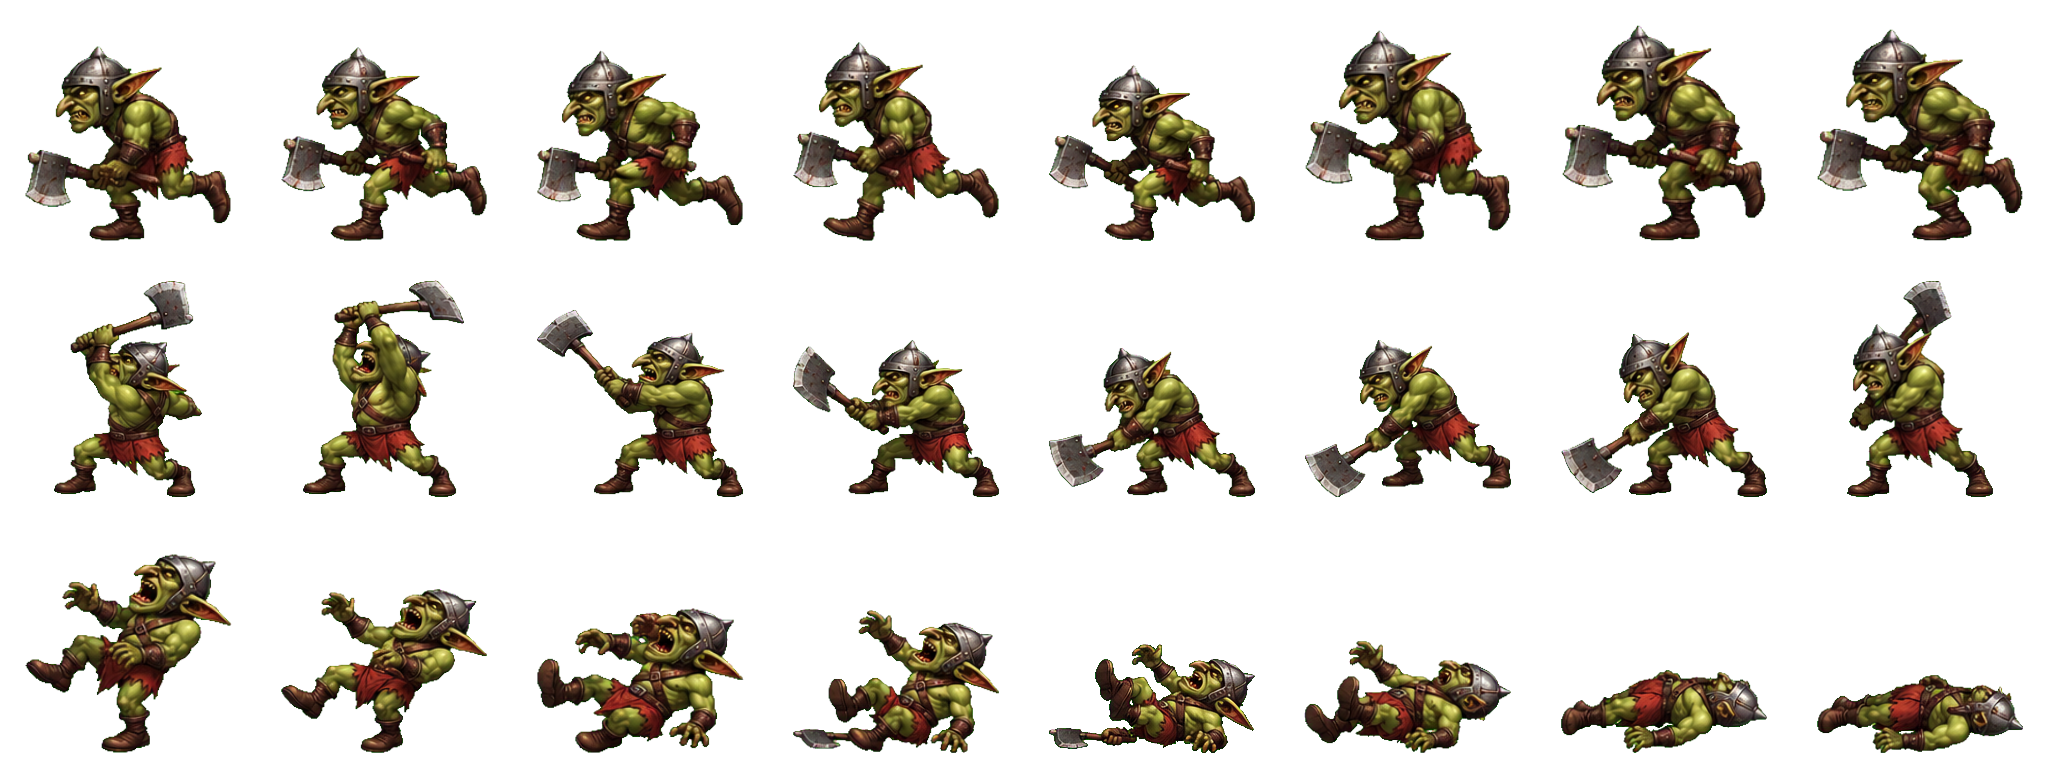
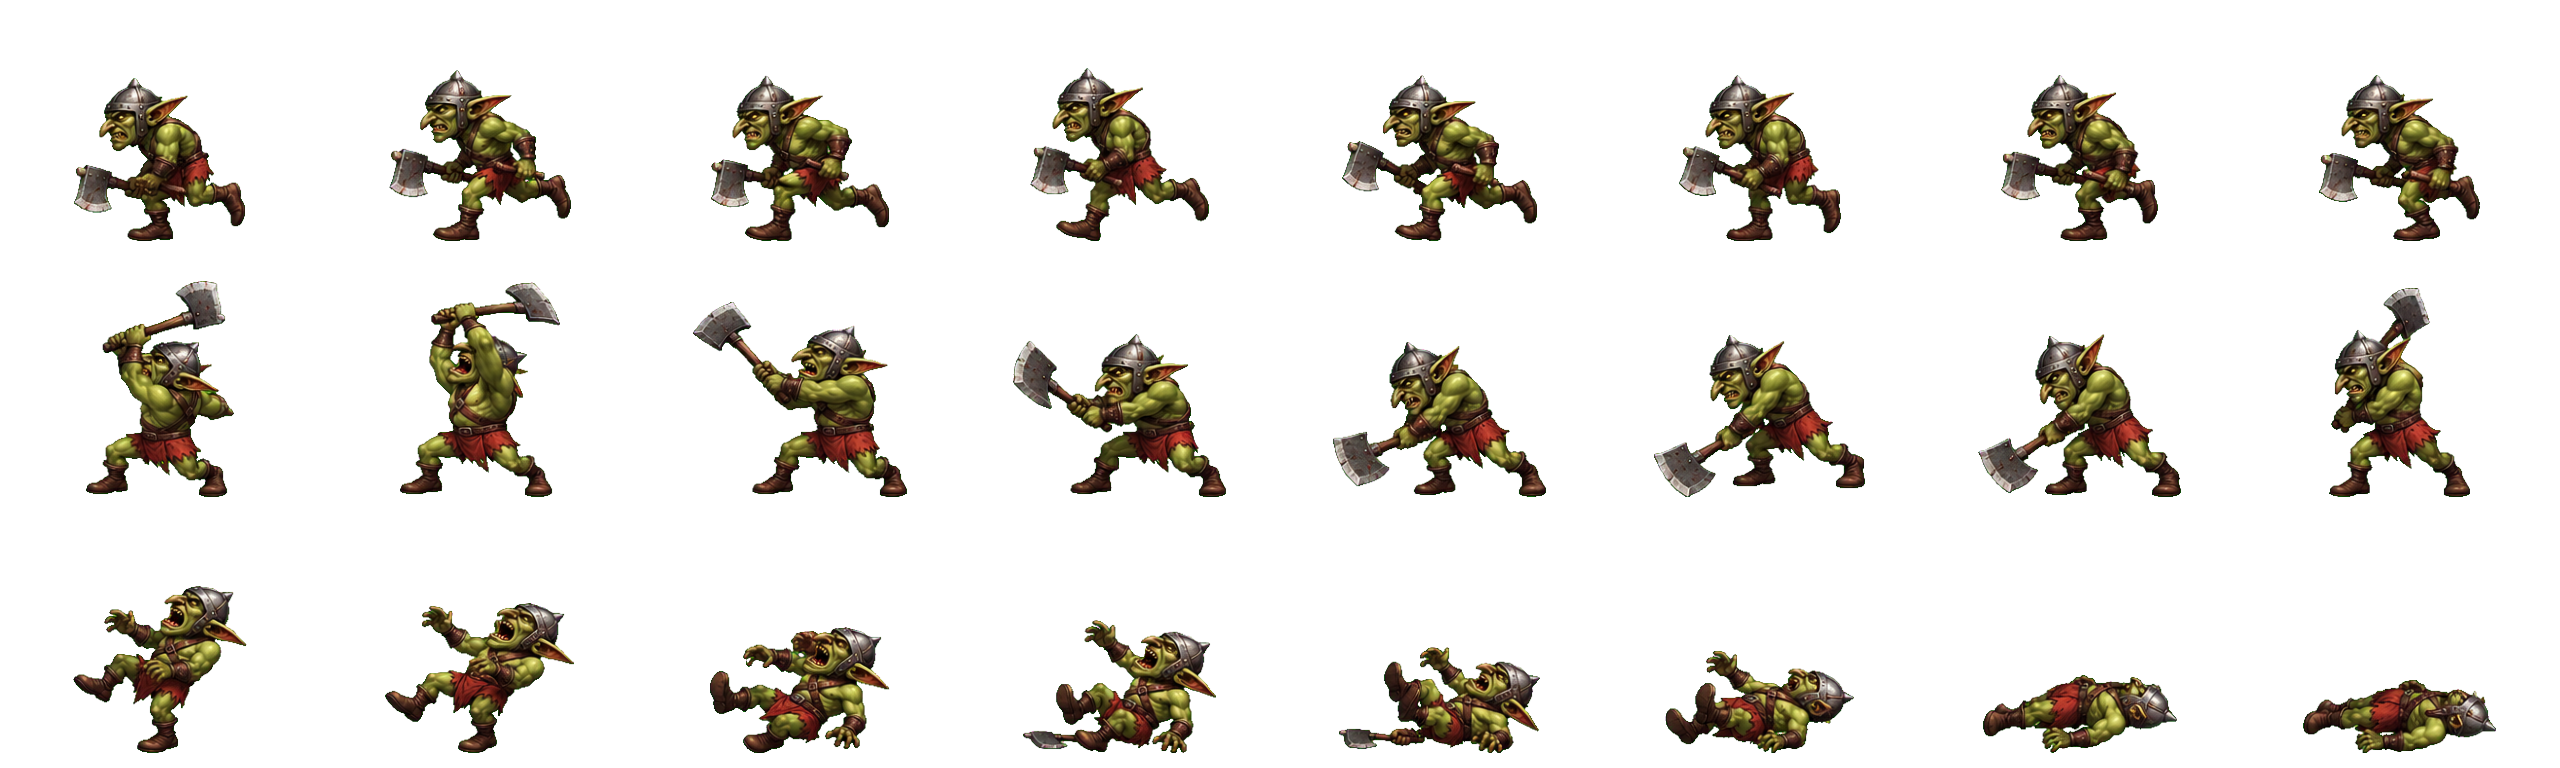
Use standing idle poses and consistent animation scale

diff --git a/README.md b/README.md
@@ -26,7 +26,7 @@
 
 На поле анимируются шаги врагов между клетками, действия героев и врагов, полёт стрел и заклинаний, попадания, лечение, зелья, появление и гибель. Следующий ход начинается после анимации предыдущего. Урон от обычных и огненных стрел наносится при достижении цели; тогда же появляются запись в журнале, звук попадания и анимация гибели. Открытый журнал останавливает бой вместе с анимациями. Герои в этой версии не перемещаются по правилам боя.
 
-У всех четырёх героев и трёх типов врагов есть покадровые изображения. Удар меняет позу рук и оружия; лучница натягивает тетиву, маг выпускает огонь, клирик поднимает руку для лечения, враги бьют ножом или топором и кусают. Враги перебирают кадры бега между клетками. При попадании и гибели меняется поза всего тела. Каждый ряд нового листа содержит восемь кадров; игра показывает ровно один кадр за раз. При сборке листа каждая фигура отделяется от соседних поз и помещается в свою ячейку с прозрачным зазором, чтобы детали соседнего кадра не появлялись во время анимации. Прозрачные игровые листы `assets/*-animation-8f.png` получены из хромакейных оригиналов в `assets/animation_chroma/` командой `Godot --headless --path . --script res://tools/key_sprite_sheets.gd`.
+У всех четырёх героев и трёх типов врагов есть покадровые изображения. В покое герои стоят в боевой стойке; беговые позы показываются только при перемещении. Удар меняет позу рук и оружия; лучница натягивает тетиву, маг выпускает огонь, клирик поднимает руку для лечения, враги бьют ножом или топором и кусают. Враги перебирают кадры бега между клетками. При попадании и гибели меняется поза всего тела. Каждый ряд нового листа содержит восемь кадров; игра показывает ровно один кадр за раз. При сборке листа каждая фигура отделяется от соседних поз и помещается в свою ячейку с прозрачным зазором; для стоячих, беговых и атакующих поз одного персонажа используется одинаковый масштаб. Прозрачные игровые листы `assets/*-animation-8f.png` получены из хромакейных оригиналов в `assets/animation_chroma/` командой `Godot --headless --path . --script res://tools/key_sprite_sheets.gd`.
 
 Портреты всех четырёх героев тоже состоят из отдельных кадров: герои моргают, меняют выражение при действии, ранении и лечении. При потере сознания и гибели показывается соответствующий кадр. Открытый журнал останавливает анимацию портретов вместе с боем.
 
